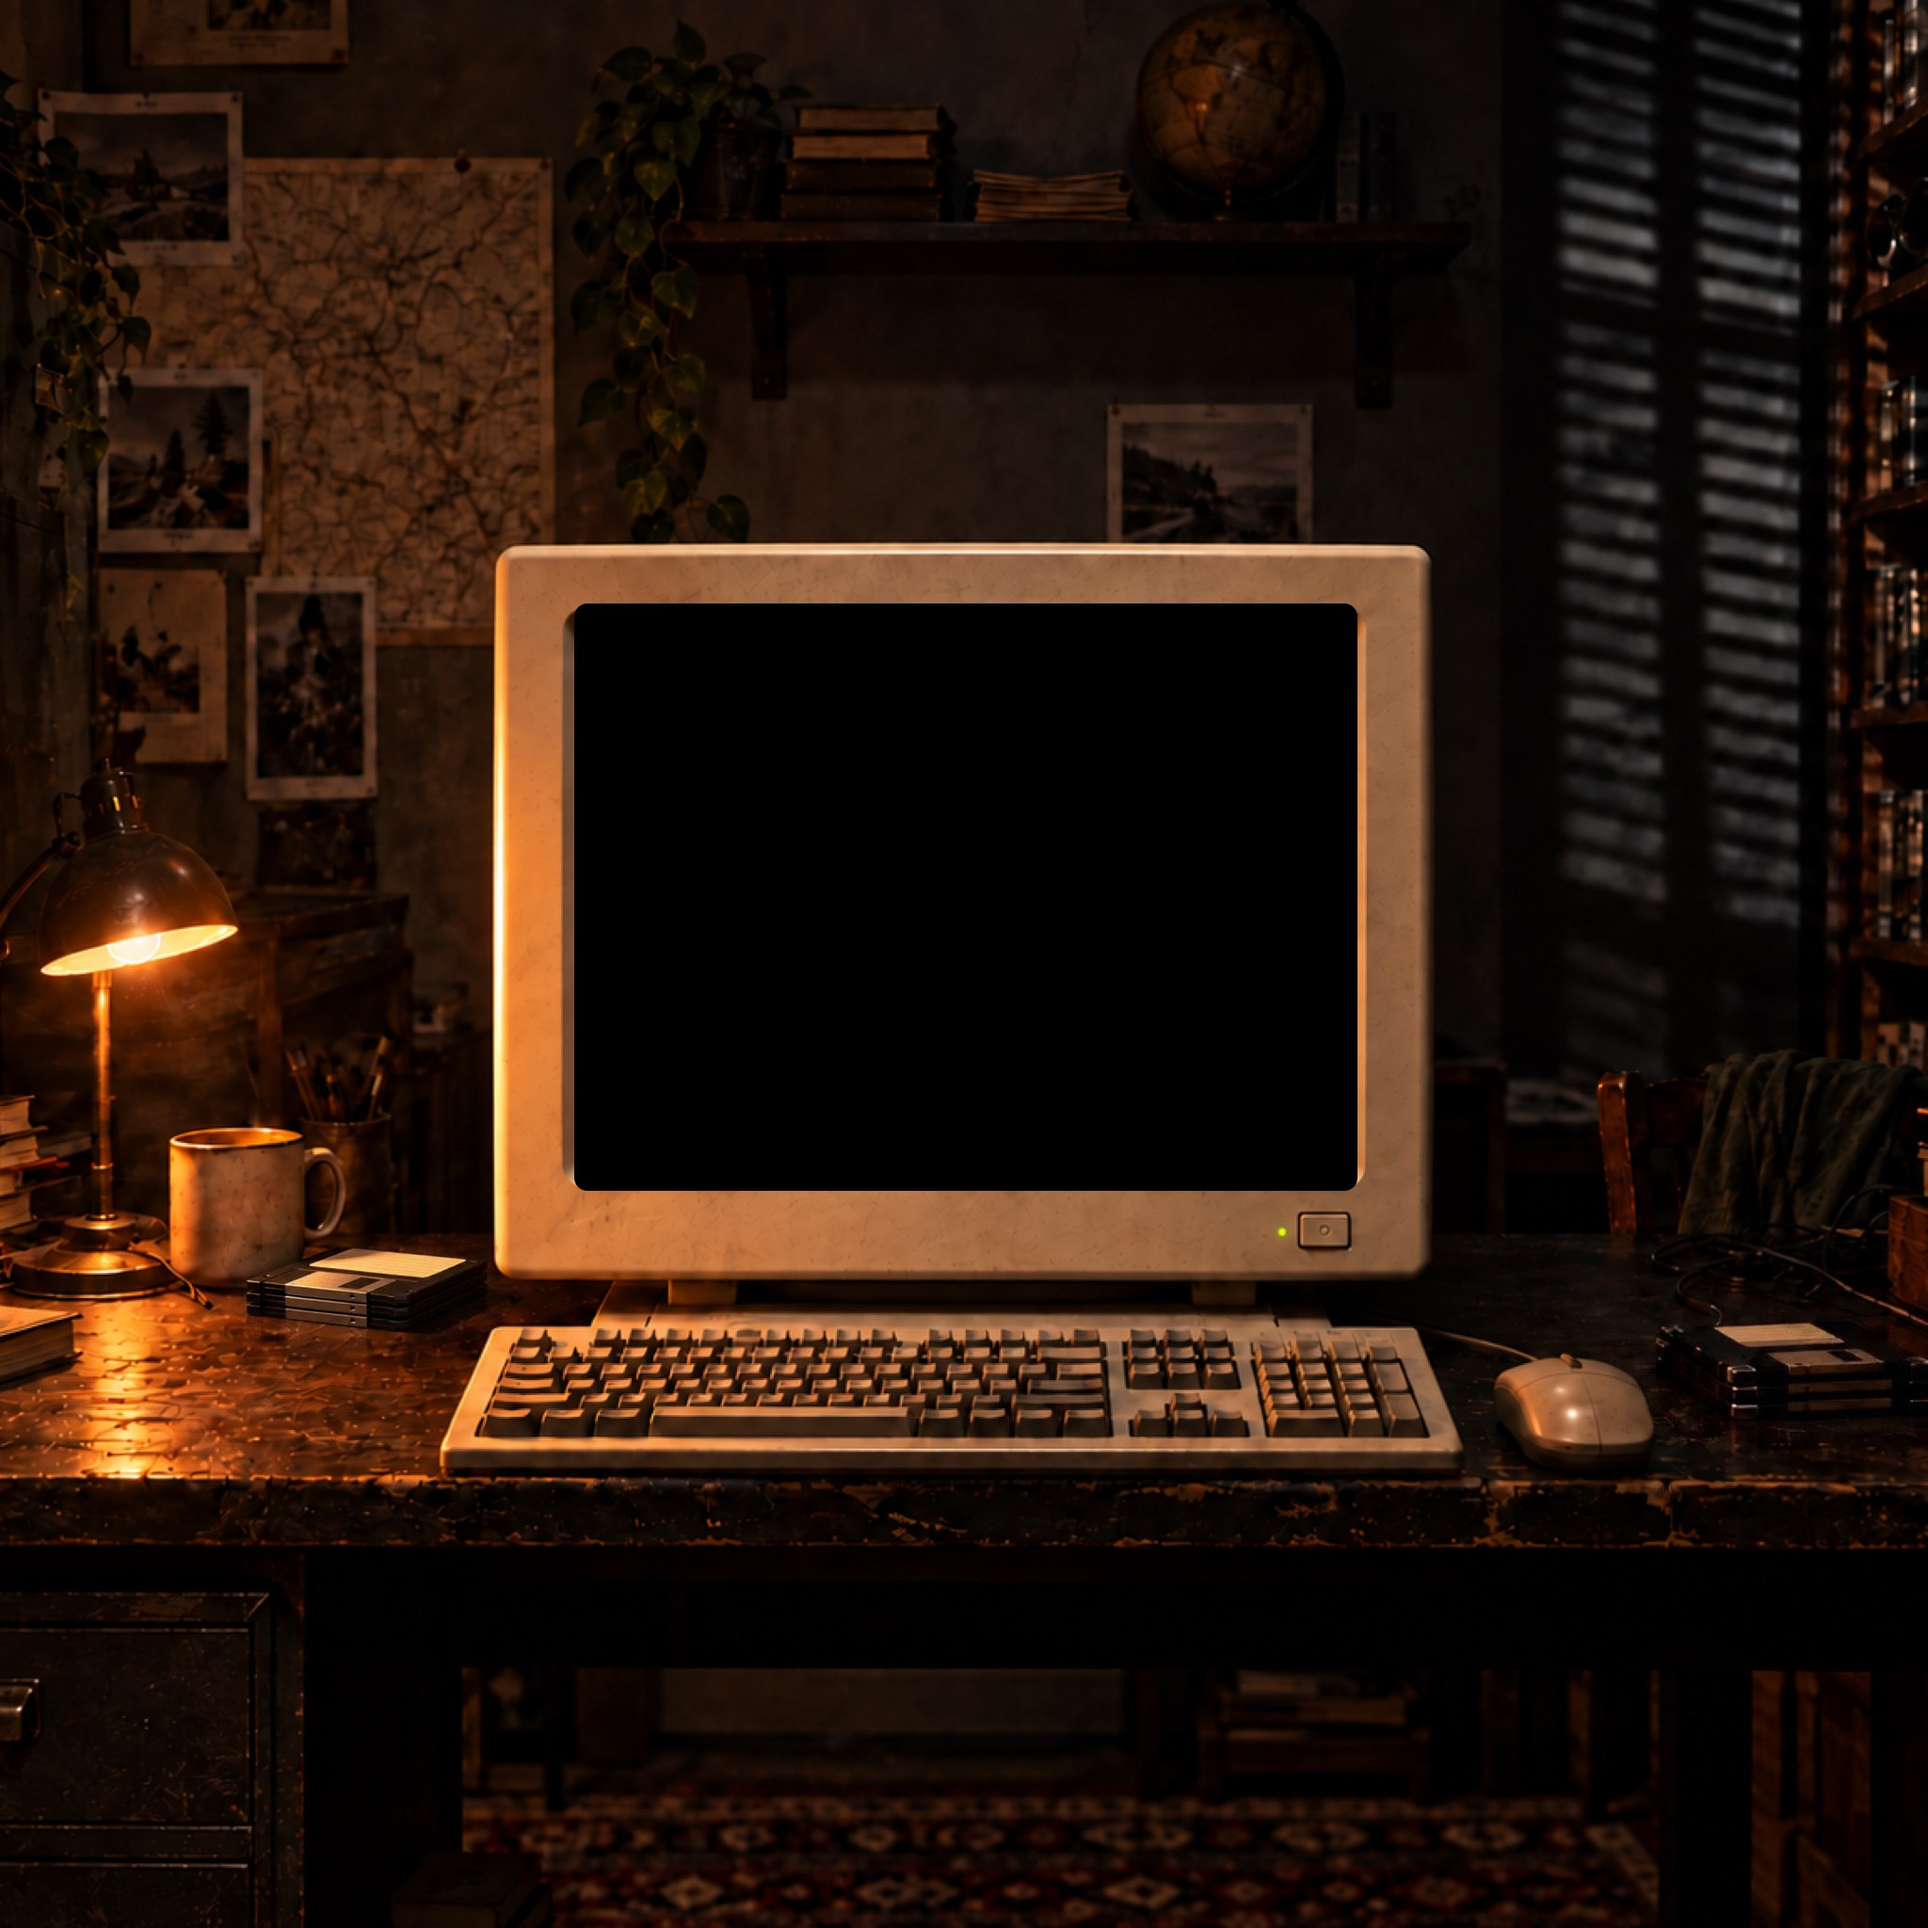
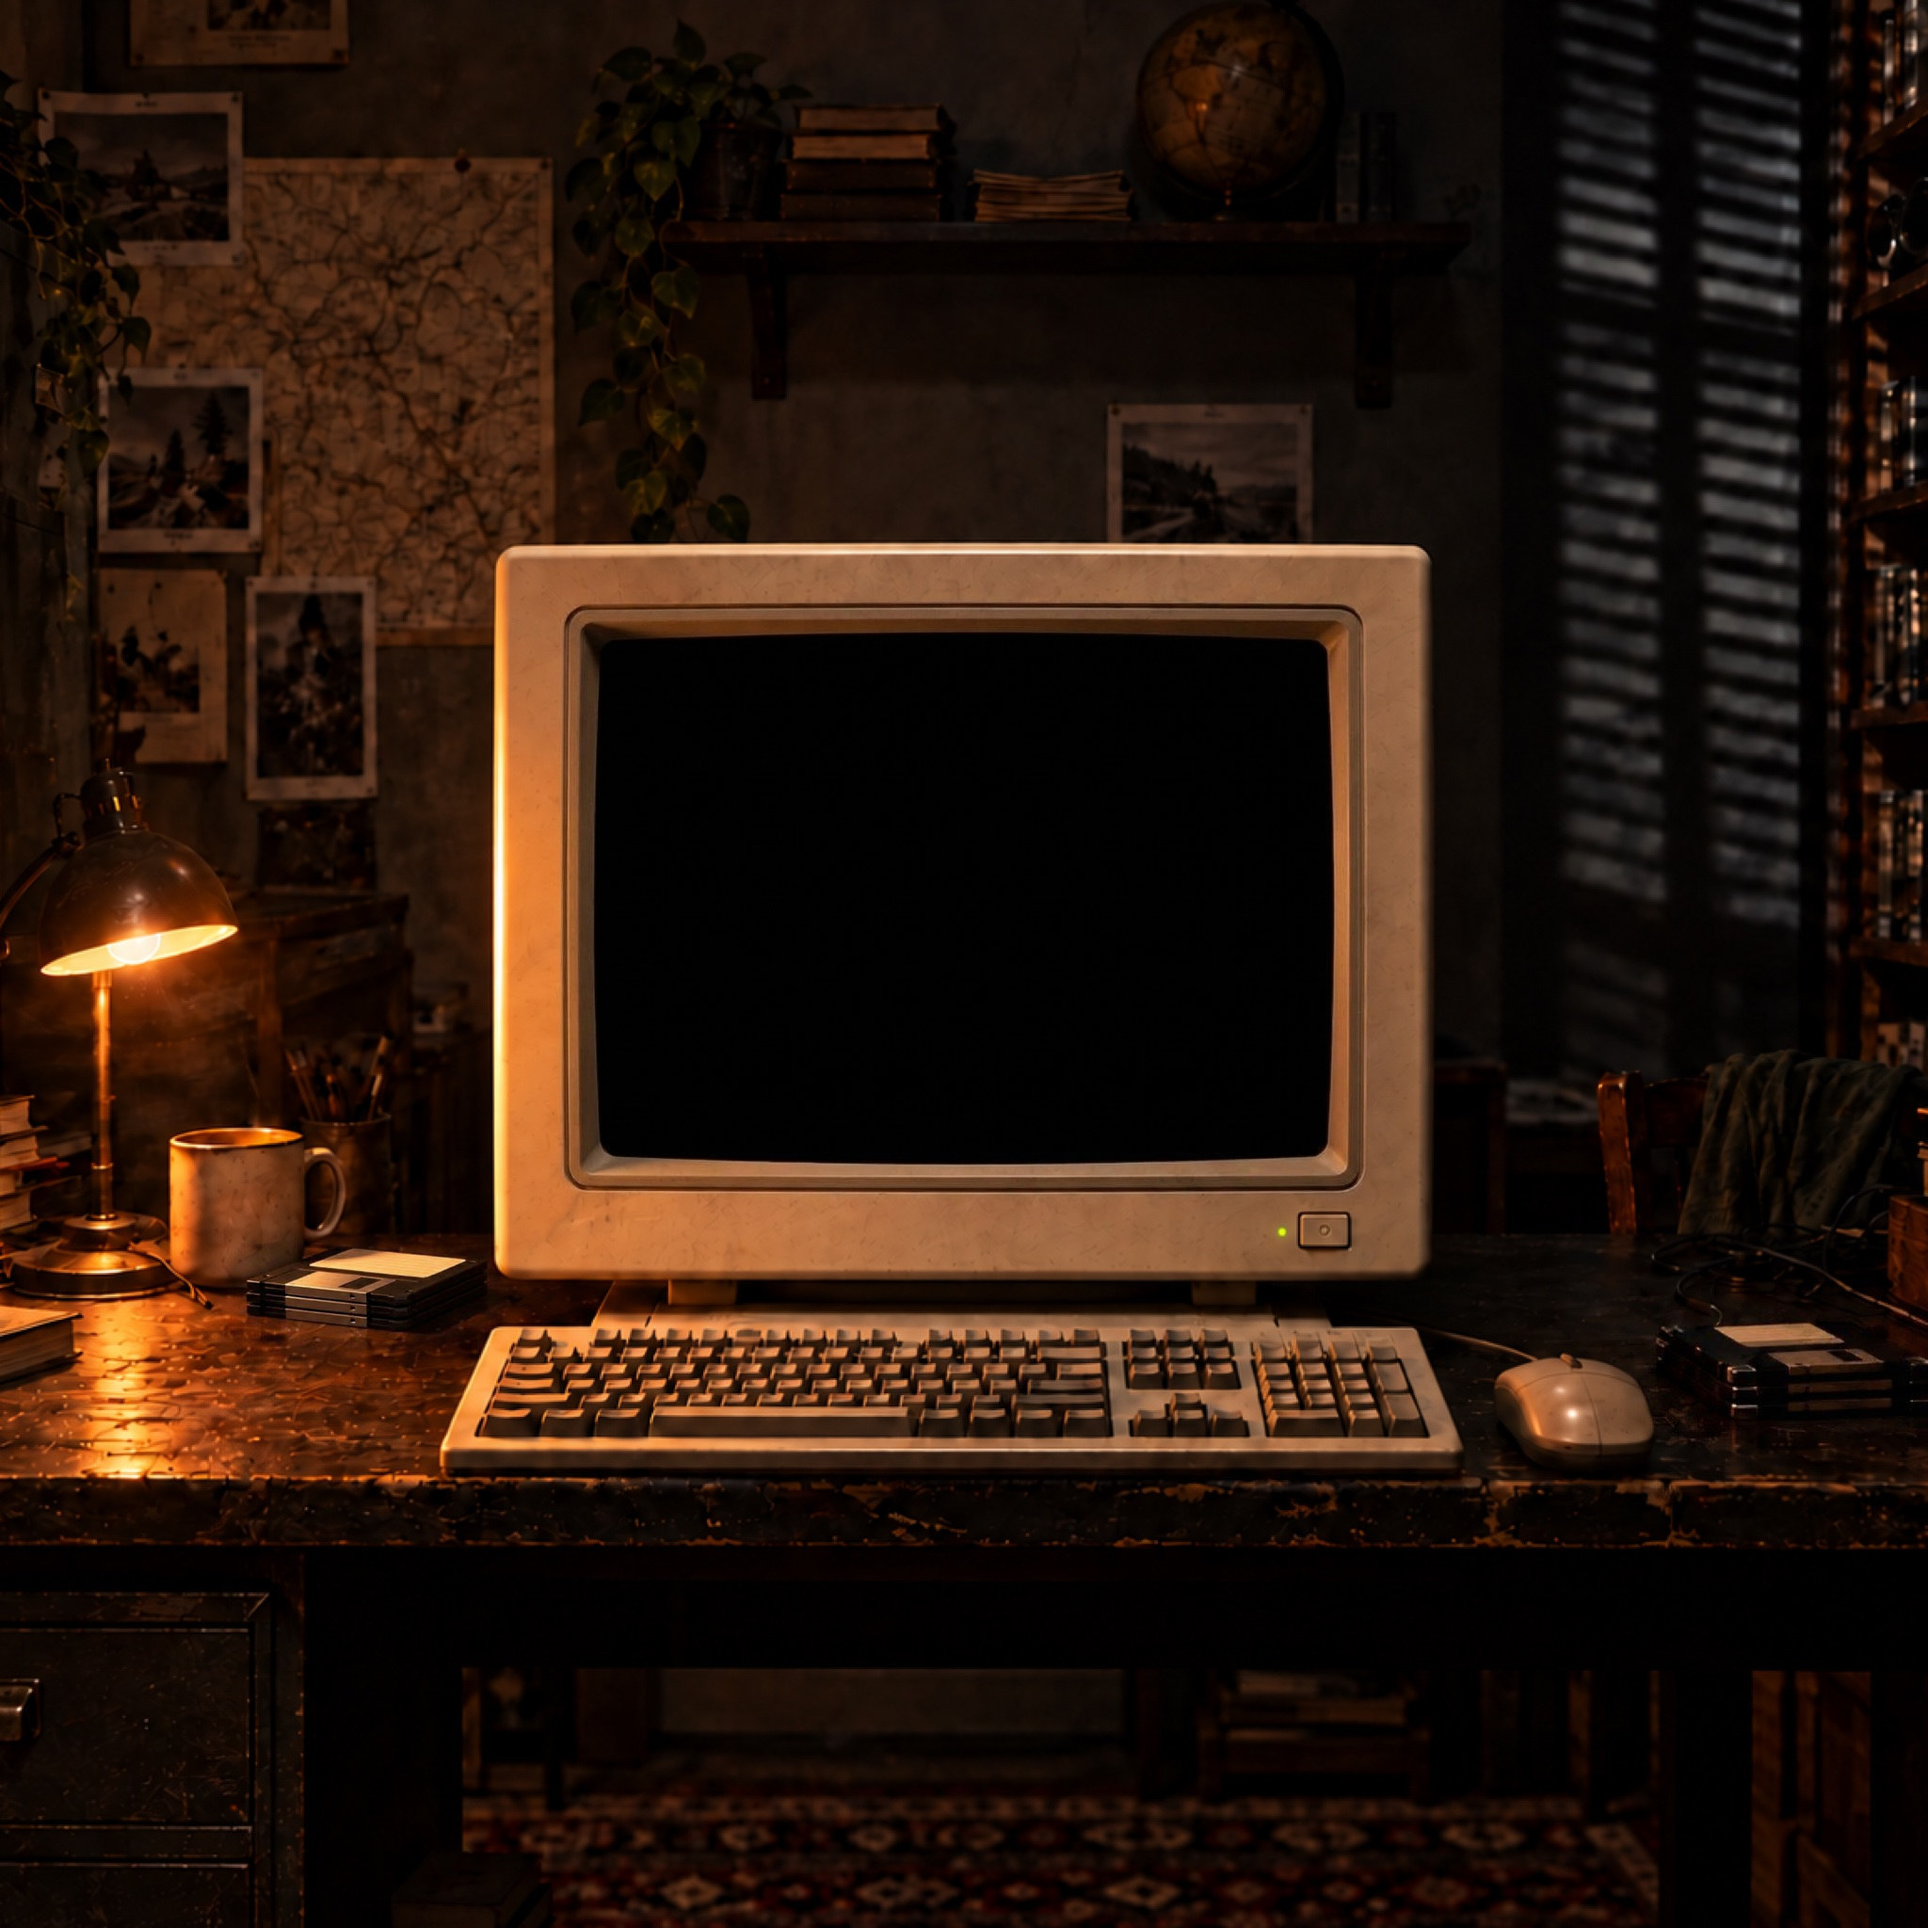
Retouch the monitor bezel so the glass sits recessed on all four sides
room.jpg showed the frame's inner wall beside the glass only on the left
and right, so the screen looked pasted over the plastic at the top and
bottom. Nano Banana Pro redid the bezel on a 1024px crop (pasted back
through a feathered mask, aligned at 0,0). The glass is now slightly
curved, so style.css takes the rectangle inside its corners and the tube
padding drops to 2% vertically to keep 12 rows on the 1.38:1 screen.
Social card recaptured. check-viewports: 7 x 18, 0 failures.

Changed region(s): [[0.2812, 0.3125, 0.7188, 0.625]]

diff --git a/site/style.css b/site/style.css
@@ -43,7 +43,7 @@ a { color: inherit; }
 .stage {
   position: absolute;
   --ar: 1;
-  --sx: .3027; --sy: .3179; --sw: .3960; --sh: .2945;   /* INSET line for assets/room.jpg, 2048x2048 */
+  --sx: .3135; --sy: .3310; --sw: .3720; --sh: .2690;   /* assets/room.jpg, 2048x2048: the glass is slightly curved, so this is the rectangle inside its corners (measure-screen.py: max of L/T, min of R/B), inset ~0.5% */
   --cx: calc(var(--sx) + var(--sw) / 2);
   --cy: calc(var(--sy) + var(--sh) / 2);
   --cols: 46; --rows: 12; --adv: .4;                 /* the terminal grid; VT323 advances .4em per character */
@@ -105,12 +105,12 @@ a { color: inherit; }
 }
 /* The screen is a fixed terminal grid, --cols by --rows (46 by 12), on any device: the type is sized so
    --cols characters of --adv em each use 90% of the screen width. 12 rows at line-height 1.15 use 67.5%
-   of the width, which is 90% of a 4:3 screen's height. Percentage padding is relative to the width on
-   every side, so 3% 4% leaves room for all 12. tools/check-viewports.mjs reads --cols and --rows and
+   of the width, which is 93% of this 1.38:1 screen's height. Percentage padding is relative to the width on
+   every side, so 2% 4% leaves room for all 12. tools/check-viewports.mjs reads --cols and --rows and
    fails a chapter that does not fit. */
 .tube {
   position: absolute; inset: 0;
-  padding: 3% 4%;
+  padding: 2% 4%;
   overflow: hidden;
   font-size: calc(var(--S) * var(--sw) * .9 / (var(--cols) * var(--adv)));
   line-height: 1.15;

diff --git a/tools/retouch-room.py b/tools/retouch-room.py
@@ -1,4 +1,7 @@
 """One-off retouch of assets/room.jpg (2026-09-16): the two stacks of floppy disks were regenerated.
+2026-09-17: the monitor bezel was redone the same way with a 1024px crop at (512, 440), box (70,180,950,845),
+feather 14, prompt "a thin dark inner frame lip of the same depth on all four sides, screen a flat pure
+black rectangle, everything else exactly as it is"; the edit aligned at (0,0), outside-box diff 3.74.
 
 How it was done, so it can be repeated for another object:
 1. Cut a 512x512 context crop around each object with sips (offsets below).

diff --git a/README.md b/README.md
@@ -5,7 +5,7 @@ Personal site of Álvaro Lillo Igualada. Static HTML, CSS and one script, no bui
 - `site/` is the published directory (see `netlify.toml`).
 - `site/index.html` is the landing page: a CRT monitor on a desk that types the page as the visitor scrolls: a welcome screen, the briefing with the contact links, then five story chapters named by stage. All story copy lives in the `<article class="chapter">` blocks; the screen is their visual twin. The screen is a fixed terminal grid of 46 columns by 12 rows on every device, so each chapter must fit that box (`tools/check-viewports.mjs` fails when one does not). ASCII art goes in `<pre>` and must be plain ASCII: VT323 has no box-drawing glyphs. The briefing's last line leads into the story and the story's last line leads back to the briefing; a focus-only skip link serves keyboard users. The meta tags carry their own copy. Without JavaScript the chapters render as a plain page.
 - `site/crt.js` drives the typing from the scroll position. `?show=<chapter id>` renders one chapter fully typed and static (useful for screenshots and the social card).
-- `site/style.css` positions the text layer over the screen and adds the phosphor glow, scanlines and light spill. The room and the monitor are one square photo, `assets/room.jpg` (2048×2048, generated with Codex from the previous render as reference; the floppy disks were later retouched with Nano Banana Pro and pasted back through `tools/retouch-room.py`, so only the floppy regions changed and the file is a fresh JPEG re-encode). The stage covers the viewport and is cropped around the centre of the screen; in portrait it zooms in until the screen spans 90% of the width, and in landscape at least 500px tall it never scales past the point where the whole computer (wall above the bezel to the desk edge) fits the height, so wide displays get a narrower photo whose sides fade to black. The text layer is pinned to the black screen through `--ar` (the photo's aspect ratio) and the fractions `--sx/--sy/--sw/--sh` in `style.css`. If you regenerate the photo: set `--ar`, run `python3 tools/measure-screen.py site/assets/room.jpg 45 0.47` and paste the INSET line it prints.
+- `site/style.css` positions the text layer over the screen and adds the phosphor glow, scanlines and light spill. The room and the monitor are one square photo, `assets/room.jpg` (2048×2048, generated with Codex from the previous render as reference; the floppy disks and later the monitor bezel were retouched with Nano Banana Pro and pasted back through `tools/retouch-room.py`, so only those regions changed and the file is a fresh JPEG re-encode; the bezel edit gave the glass a recessed inner frame on all four sides and a slight CRT curve, so the screen rectangle in `style.css` is the one inside the curved corners). The stage covers the viewport and is cropped around the centre of the screen; in portrait it zooms in until the screen spans 90% of the width, and in landscape at least 500px tall it never scales past the point where the whole computer (wall above the bezel to the desk edge) fits the height, so wide displays get a narrower photo whose sides fade to black. The text layer is pinned to the black screen through `--ar` (the photo's aspect ratio) and the fractions `--sx/--sy/--sw/--sh` in `style.css`. If you regenerate the photo: set `--ar`, run `python3 tools/measure-screen.py site/assets/room.jpg 45 0.47` and paste the INSET line it prints (if the glass is curved and the samples disagree, use the innermost sample on each side).
 - `tools/` holds dev-only checks (`pnpm -C tools install` once). `node tools/check-viewports.mjs [--only ids] [--sheet out.html]` loads every chapter at 18 viewports in the installed Chrome and fails on a chapter that overflows the grid, a clipped screen, a cropped keyboard on landscape displays of 500px or more, a missing fade where the photo does not fill the viewport, type under 15px, anything the page logs or fails to load, or a behaviour check (the welcome self-types, a resize keeps the screen, the skip link and the two in-screen links land where they say, old deep-link ids resolve, reduced motion and no-JS render); `--sheet` writes a single-file contact sheet of screenshots. `tools/page.mjs` holds what the two scripts share. `node tools/social-card.mjs` recaptures `site/assets/social.jpg` (1200×630) from `index.html?show=briefing`.
 - `site/resume.pdf` is the downloadable résumé, built from `profile/resume.html` with `profile/build-resume.sh`.
 - `profile/profile.md` is the source of truth for every claim on the site, the résumé and LinkedIn. Change it there first.
